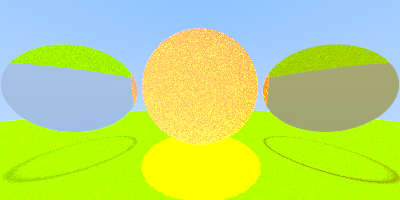
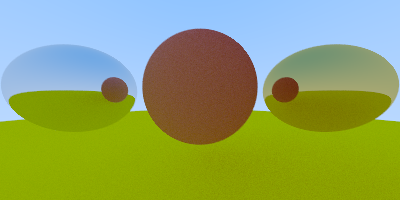
fix reflections

diff --git a/src/materials.rs b/src/materials.rs
@@ -44,9 +44,9 @@ impl Material for Lambertian {
         let target = hit.p + hit.normal + rand_in_unit_sphere();
         let scattered = Ray::new(hit.p, target - hit.p);
         // We could as well introduce some probability for scatter
-        let p = rand::thread_rng().gen_range(0.1..0.99);
-        let attenuation = self.albedo / p;
-        // let attenuation = self.albedo;
+        // let p = rand::thread_rng().gen_range(0.1..0.99);
+        // let attenuation = self.albedo / p;
+        let attenuation = self.albedo;
         return Some((attenuation, scattered));
     }
 }

diff --git a/src/scene.rs b/src/scene.rs
@@ -37,14 +37,10 @@ impl Surface for Sphere {
             }
         }
 
-        let visible = ray.direction().dot(self.center) < 0.0;
-        Some(Hit::new(
-            root,
-            ray,
-            self.center,
-            &*self.material,
-            visible,
-        ))
+        let p = ray.at(root);
+        let normal = (p - self.center) / self.radius;
+
+        Some(Hit::new(root, ray, &*self.material, normal))
     }
 }
 

diff --git a/src/lib.rs b/src/lib.rs
@@ -69,9 +69,8 @@ pub struct Hit<'a> {
 }
 
 impl<'a> Hit<'a> {
-    pub fn new(t: f32, ray: &Ray, origin: Vec3, material: &'a dyn Material, visible: bool) -> Self {
+    pub fn new(t: f32, ray: &Ray, material: &'a dyn Material, normal: Vec3) -> Self {
         let p = ray.at(t);
-        let normal = if visible { p - origin } else { -p - origin };
 
         Self {
             t,
